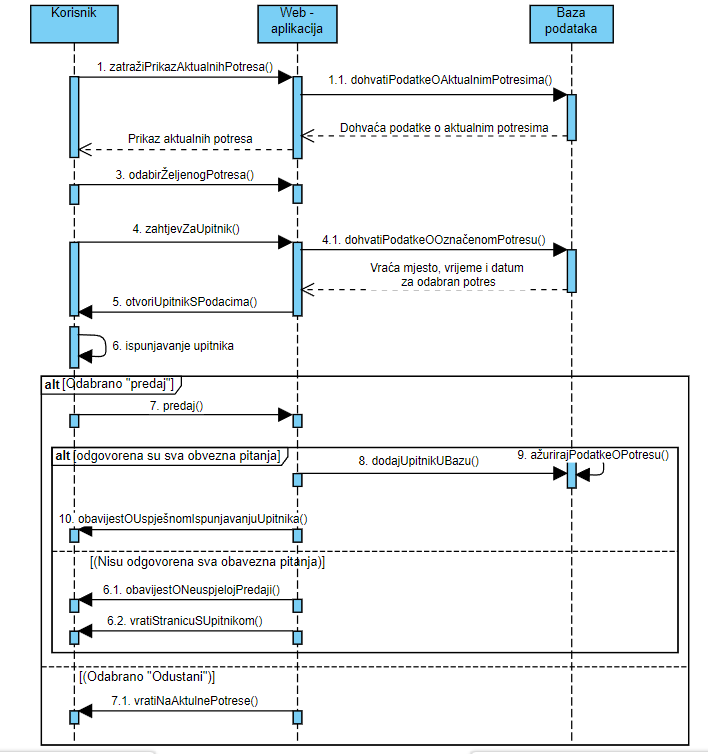
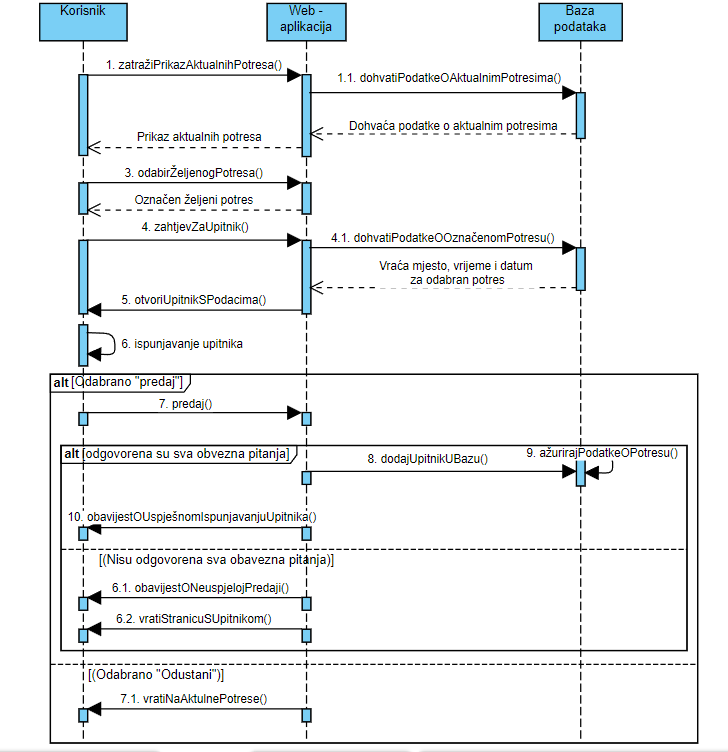
Popravljeni dijagrami i obrasci uporabe

Changed region(s): [[0.0, 0.0, 1.0, 1.0], [0.404, 0.9176, 0.435, 0.9787]]

diff --git a/Dokumentacija/Specifikacija_programske_potpore.tex b/Dokumentacija/Specifikacija_programske_potpore.tex
@@ -214,7 +214,38 @@
 						\end{packed_item}
 					\end{packed_item}
 
-					\noindent \underbar{\textbf{UC5 - Uklanjanje seizmologa}}
+					\noindent \underbar{\textbf{UC5 - Pregled seizmologa}}
+					\begin{packed_item}
+	
+						\item \textbf{Glavni sudionik:} Administrator
+						\item \textbf{Cilj:} Pregled seizmologa koji su registrirani u sustavu
+						\item \textbf{Sudionici:} Baza podataka
+						\item \textbf{Preduvjet:} Administrator prijavljen u sustav
+						\item \textbf{Opis osnovnog tijeka:}
+						
+						\item[] \begin{packed_enum}
+	
+							\item Administrator u izborniku na početnoj stranici odabire opciju za pregled profila
+							\item Administrator na profilu odabire opciju "Pregledaj seizmologe"
+							\item Sustav prikazuje popis registriranih korisnika (seizmologa)
+							
+						\end{packed_enum}
+						
+						\item  \textbf{Opis mogućih odstupanja:}
+						
+						\item[] \begin{packed_item}
+	
+							\item[2.a] Nema registriranih seizmologa
+							\item[] \begin{packed_enum}
+								
+								\item Prikazuje se poruka da još nema registriranih seizmologa
+								
+							\end{packed_enum}
+							
+						\end{packed_item}
+					\end{packed_item}
+
+					\noindent \underbar{\textbf{UC6 - Uklanjanje seizmologa}}
 					\begin{packed_item}
 	
 						\item \textbf{Glavni sudionik:} Administrator
@@ -244,37 +275,6 @@
 							\item[] \begin{packed_enum}
 								\item Sustav vraća administratora na pregled seizmologa
 							\end{packed_enum}	
-						\end{packed_item}
-					\end{packed_item}
-
-					\noindent \underbar{\textbf{UC6 - Pregled seizmologa}}
-					\begin{packed_item}
-	
-						\item \textbf{Glavni sudionik:} Administrator
-						\item \textbf{Cilj:} Pregled seizmologa koji su registrirani u sustavu
-						\item \textbf{Sudionici:} Baza podataka
-						\item \textbf{Preduvjet:} Administrator prijavljen u sustav
-						\item \textbf{Opis osnovnog tijeka:}
-						
-						\item[] \begin{packed_enum}
-	
-							\item Administrator u izborniku na početnoj stranici odabire opciju za pregled profila
-							\item Administrator na profilu odabire opciju "Pregledaj seizmologe"
-							\item Sustav prikazuje popis registriranih korisnika (seizmologa)
-							
-						\end{packed_enum}
-						
-						\item  \textbf{Opis mogućih odstupanja:}
-						
-						\item[] \begin{packed_item}
-	
-							\item[2.a] Nema registriranih seizmologa
-							\item[] \begin{packed_enum}
-								
-								\item Prikazuje se poruka da još nema registriranih seizmologa
-								
-							\end{packed_enum}
-							
 						\end{packed_item}
 					\end{packed_item}
 
@@ -388,32 +388,7 @@
 						\end{packed_enum}
 					\end{packed_item}
 
-					\noindent \underbar{\textbf{UC11 - Arhiviranje aktualnih potresa}}
-					\begin{packed_item}
-	
-						\item \textbf{Glavni sudionik:} Administrator
-						\item \textbf{Cilj:} Prebaciti aktualne potrese u kategoriju arhiviranih
-						\item \textbf{Sudionici:} Baza podataka
-						\item \textbf{Preduvjet:} 
-						\begin{packed_item}
-							\item Administrator prijavljen u sustav
-							\item Postojanje aktualnih potresa
-						\end{packed_item}
-
-						\item \textbf{Opis osnovnog tijeka:}
-						
-						\item[] \begin{packed_enum}
-	
-							\item Pregled aktualnih potresa
-							\item Odabir jednog ili više aktualnih potresa
-							\item Odabir „Arhiviraj“
-							\item Baza podataka se ažurira
-							\item Sustav obavještava korisnika o uspješnosti arhiviranja potresa
-							
-						\end{packed_enum}
-					\end{packed_item}
-
-					\noindent \underbar{\textbf{UC12 - Pregled aktualnih potresa}}
+					\noindent \underbar{\textbf{UC11 - Pregled aktualnih potresa}}
 					\begin{packed_item}
 	
 						\item \textbf{Glavni sudionik:} Administrator
@@ -440,6 +415,31 @@
 							
 						\end{packed_item}
 						
+					\end{packed_item}
+
+					\noindent \underbar{\textbf{UC12 - Arhiviranje aktualnih potresa}}
+					\begin{packed_item}
+	
+						\item \textbf{Glavni sudionik:} Administrator
+						\item \textbf{Cilj:} Prebaciti aktualne potrese u kategoriju arhiviranih
+						\item \textbf{Sudionici:} Baza podataka
+						\item \textbf{Preduvjet:} 
+						\begin{packed_item}
+							\item Administrator prijavljen u sustav
+							\item Postojanje aktualnih potresa
+						\end{packed_item}
+
+						\item \textbf{Opis osnovnog tijeka:}
+						
+						\item[] \begin{packed_enum}
+	
+							\item Pregled aktualnih potresa
+							\item Odabir jednog ili više aktualnih potresa
+							\item Odabir „Arhiviraj“
+							\item Baza podataka se ažurira
+							\item Sustav obavještava korisnika o uspješnosti arhiviranja potresa
+							
+						\end{packed_enum}
 					\end{packed_item}
 
 					\noindent \underbar{\textbf{UC13 - Odjava iz sustava}}
@@ -680,13 +680,13 @@
 				\subsubsection{Dijagrami obrazaca uporabe}
 					
 				\begin{figure}[H]
-					\includegraphics[width=\textwidth, height = 15cm]{slike/prvinovo.PNG} 
+					\includegraphics[width=\textwidth, height = 15cm]{slike/prvinovi.PNG} 
 					 \caption{Dijagram obrazaca uporabe, funkcionalnosti koje imaju svi korisnici}
 					  \label{fig:obrasci1} 
 				  \end{figure}
 				  
 				  \begin{figure}[H]
-					\includegraphics[width=\textwidth]{slike/druginovo.PNG} 
+					\includegraphics[width=\textwidth]{slike/druginov.PNG} 
 					\caption{Dijagram obrazaca uporabe, funkcionalnosti koje imaju regestrirani korisnici}
 					\label{fig:obrasci2} 
 				   \end{figure}
